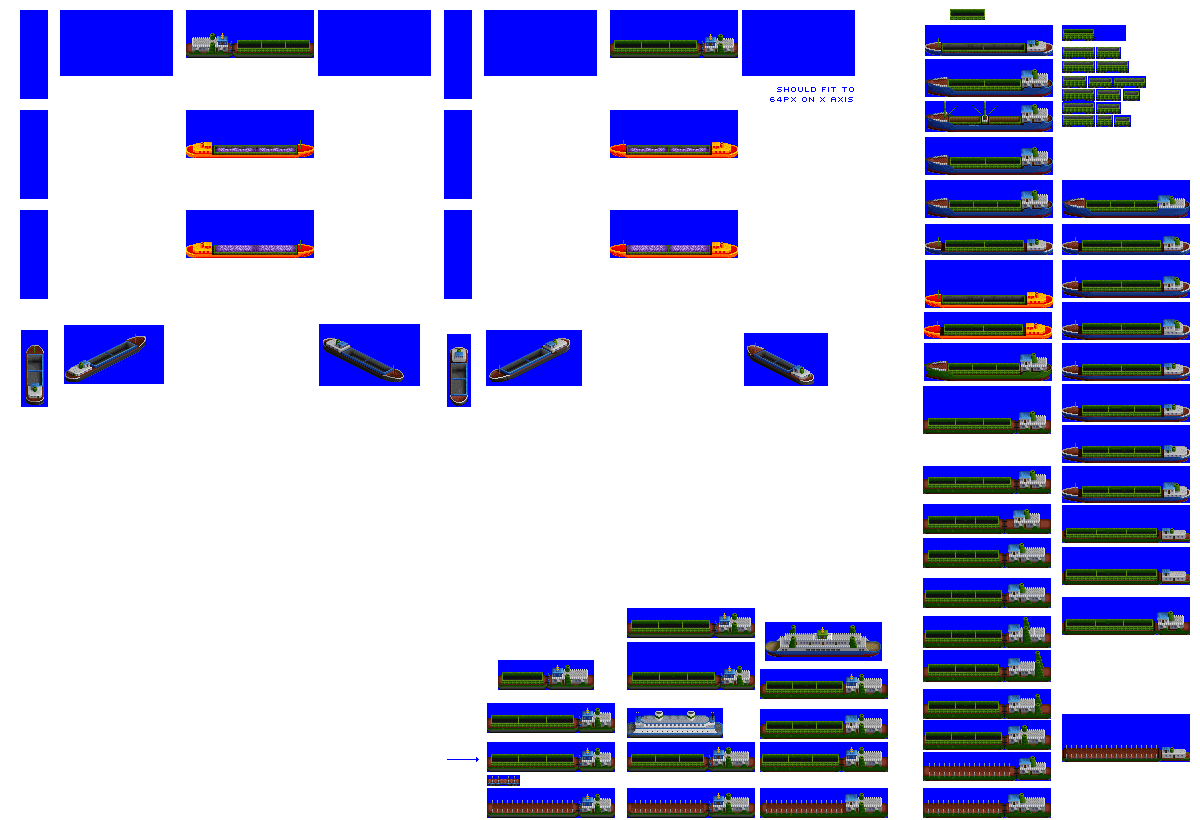
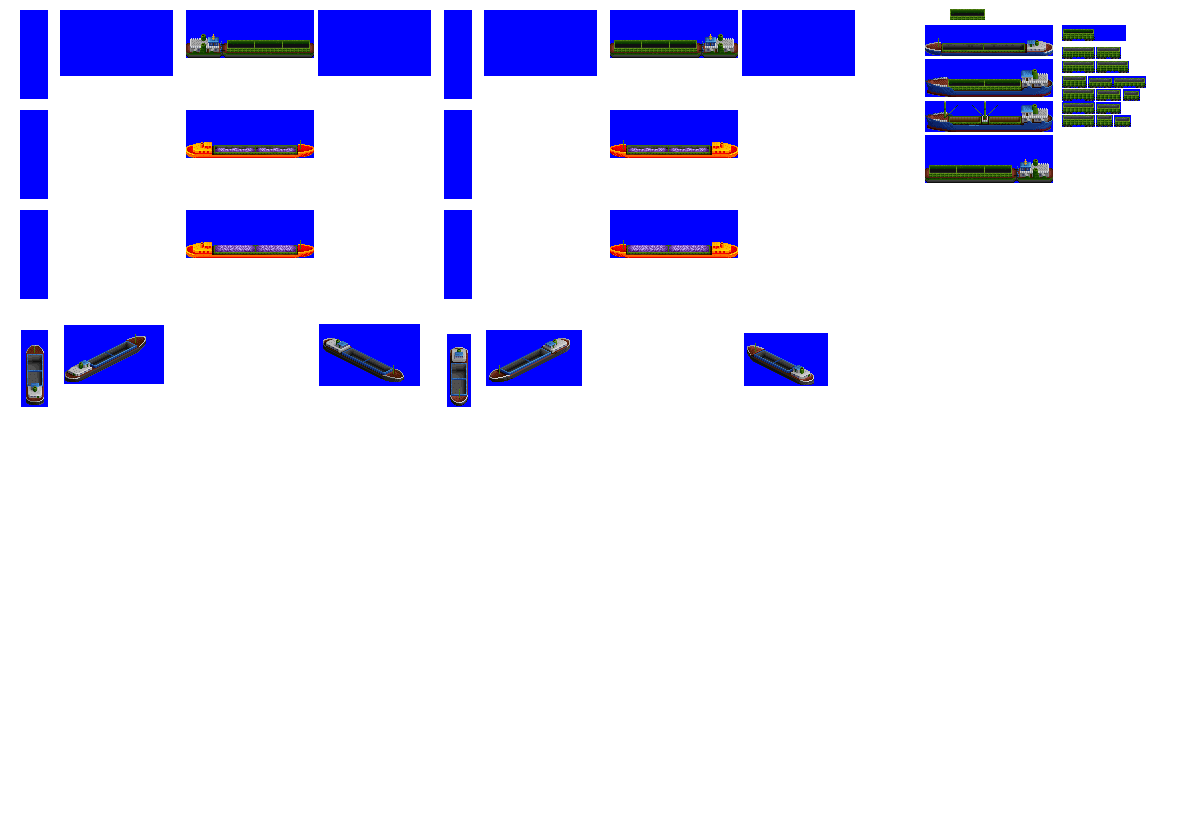
Change: rearrange spritesheets for large flat deck barge, large bulk carrier; add large push barge hull, mask, wake spritesheets

diff --git a/src/hulls.py b/src/hulls.py
@@ -30,6 +30,24 @@ class Hull(object):
         return self.hull_type + '_' + self.size_class + '_wake'
 
 
+class LargePushBargeHouseRear(Hull):
+    def __init__(self):
+        self.size_class = 'large'
+        self.hull_type = 'push_barge'
+        self.house_position = 'rear'
+        self.load_state_y_offsets = [('empty', -1), ('part_load', 1), ('full_load', 3)]
+        self.effects_positions = [(11, 0, 24)]
+
+
+class LargeRiverboatHouseRear(Hull):
+    def __init__(self):
+        self.size_class = 'large'
+        self.hull_type = 'riverboat'
+        self.house_position = 'rear'
+        self.load_state_y_offsets = [('empty', -1), ('part_load', 0), ('full_load', 1)]
+        self.effects_positions = [(11, 0, 24)]
+
+
 class LargeShipHouseRear(Hull):
     def __init__(self):
         self.size_class = 'large'
@@ -46,15 +64,6 @@ class LargeShipHouseForward(Hull):
         self.house_position = 'forward'
         self.load_state_y_offsets = [('empty', -1), ('part_load', 1), ('full_load', 3)]
         self.effects_positions = [(14, 2, 20), (14, -2, 20)]
-
-
-class LargeRiverboatHouseRear(Hull):
-    def __init__(self):
-        self.size_class = 'large'
-        self.hull_type = 'riverboat'
-        self.house_position = 'rear'
-        self.load_state_y_offsets = [('empty', -1), ('part_load', 0), ('full_load', 1)]
-        self.effects_positions = [(11, 0, 24)]
 
 
 class SmallRiverboatHouseRear(Hull):
@@ -101,7 +110,8 @@ class TempMicro(Hull):
         self.effects_positions = [(11, 0, 24)]
 
 
-registered_hulls = {'LargeRiverboatHouseRear': LargeRiverboatHouseRear(),
+registered_hulls = {'LargePushBargeHouseRear': LargePushBargeHouseRear(),
+                    'LargeRiverboatHouseRear': LargeRiverboatHouseRear(),
                     'LargeShipHouseForward': LargeShipHouseForward(),
                     'LargeShipHouseRear': LargeShipHouseRear(),
                     'SmallRiverboatHouseRear': SmallRiverboatHouseRear(),

diff --git a/src/ships/flatdeck_barge_large.py b/src/ships/flatdeck_barge_large.py
@@ -4,7 +4,7 @@ from ship import FlatDeckBarge
 ship = FlatDeckBarge(id = 'flatdeck_barge_large',
                     numeric_id = 17,
                     title = 'Large [Flatdeck Barge]',
-                    hull = 'LargeRiverboatHouseRear',
+                    hull = 'LargePushBargeHouseRear',
                     buy_cost = 28,
                     fixed_run_cost_factor = 3.5,
                     fuel_run_cost_factor = 1.0,

diff --git a/src/ships/bulk_carrier_large.py b/src/ships/bulk_carrier_large.py
@@ -4,7 +4,7 @@ from ship import BulkCarrier
 ship = BulkCarrier(id = 'bulk_carrier_large',
                     numeric_id = 9,
                     title = 'Large [Bulk Carrier]',
-                    hull = 'LargeRiverboatHouseRear',
+                    hull = 'LargePushBargeHouseRear',
                     buy_cost = 28,
                     fixed_run_cost_factor = 3.5,
                     fuel_run_cost_factor = 1.0,
